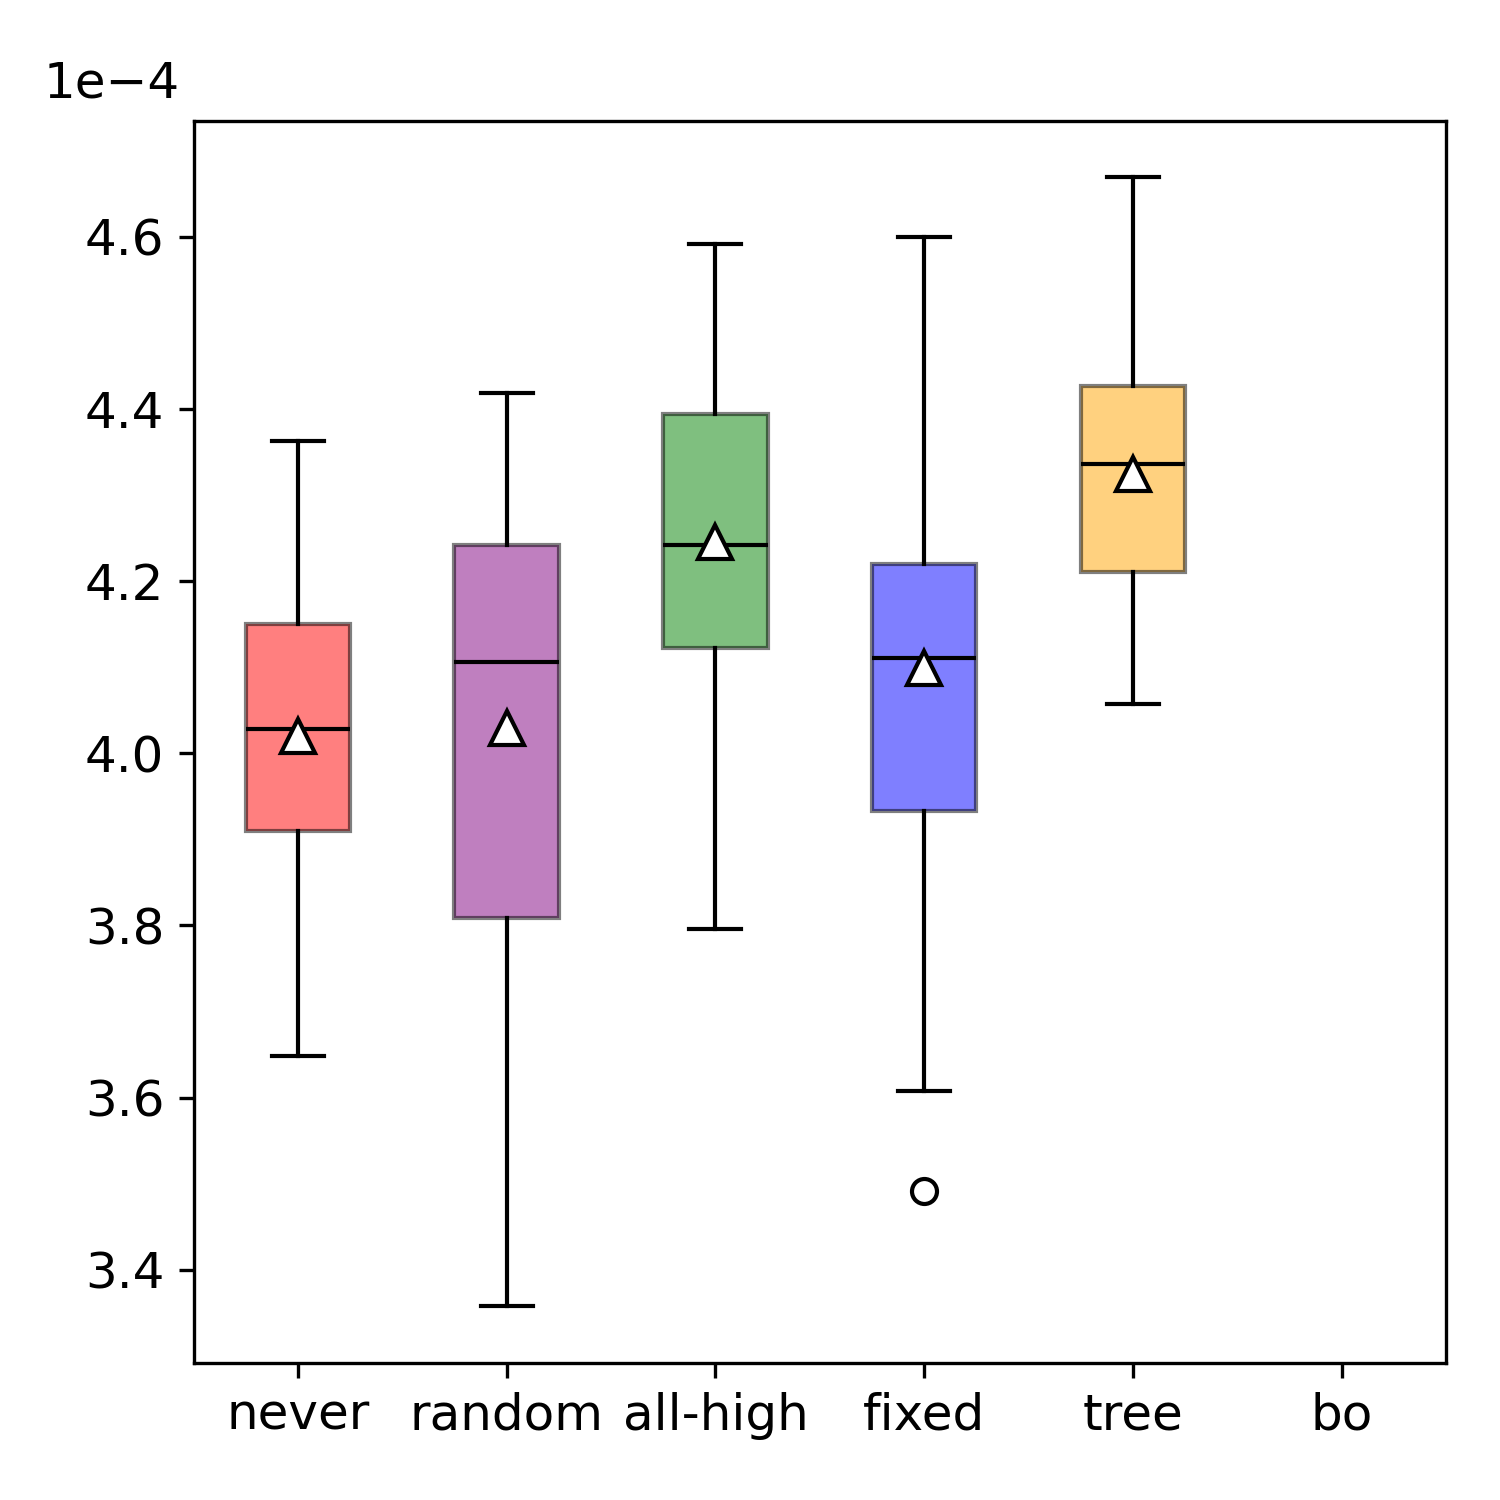
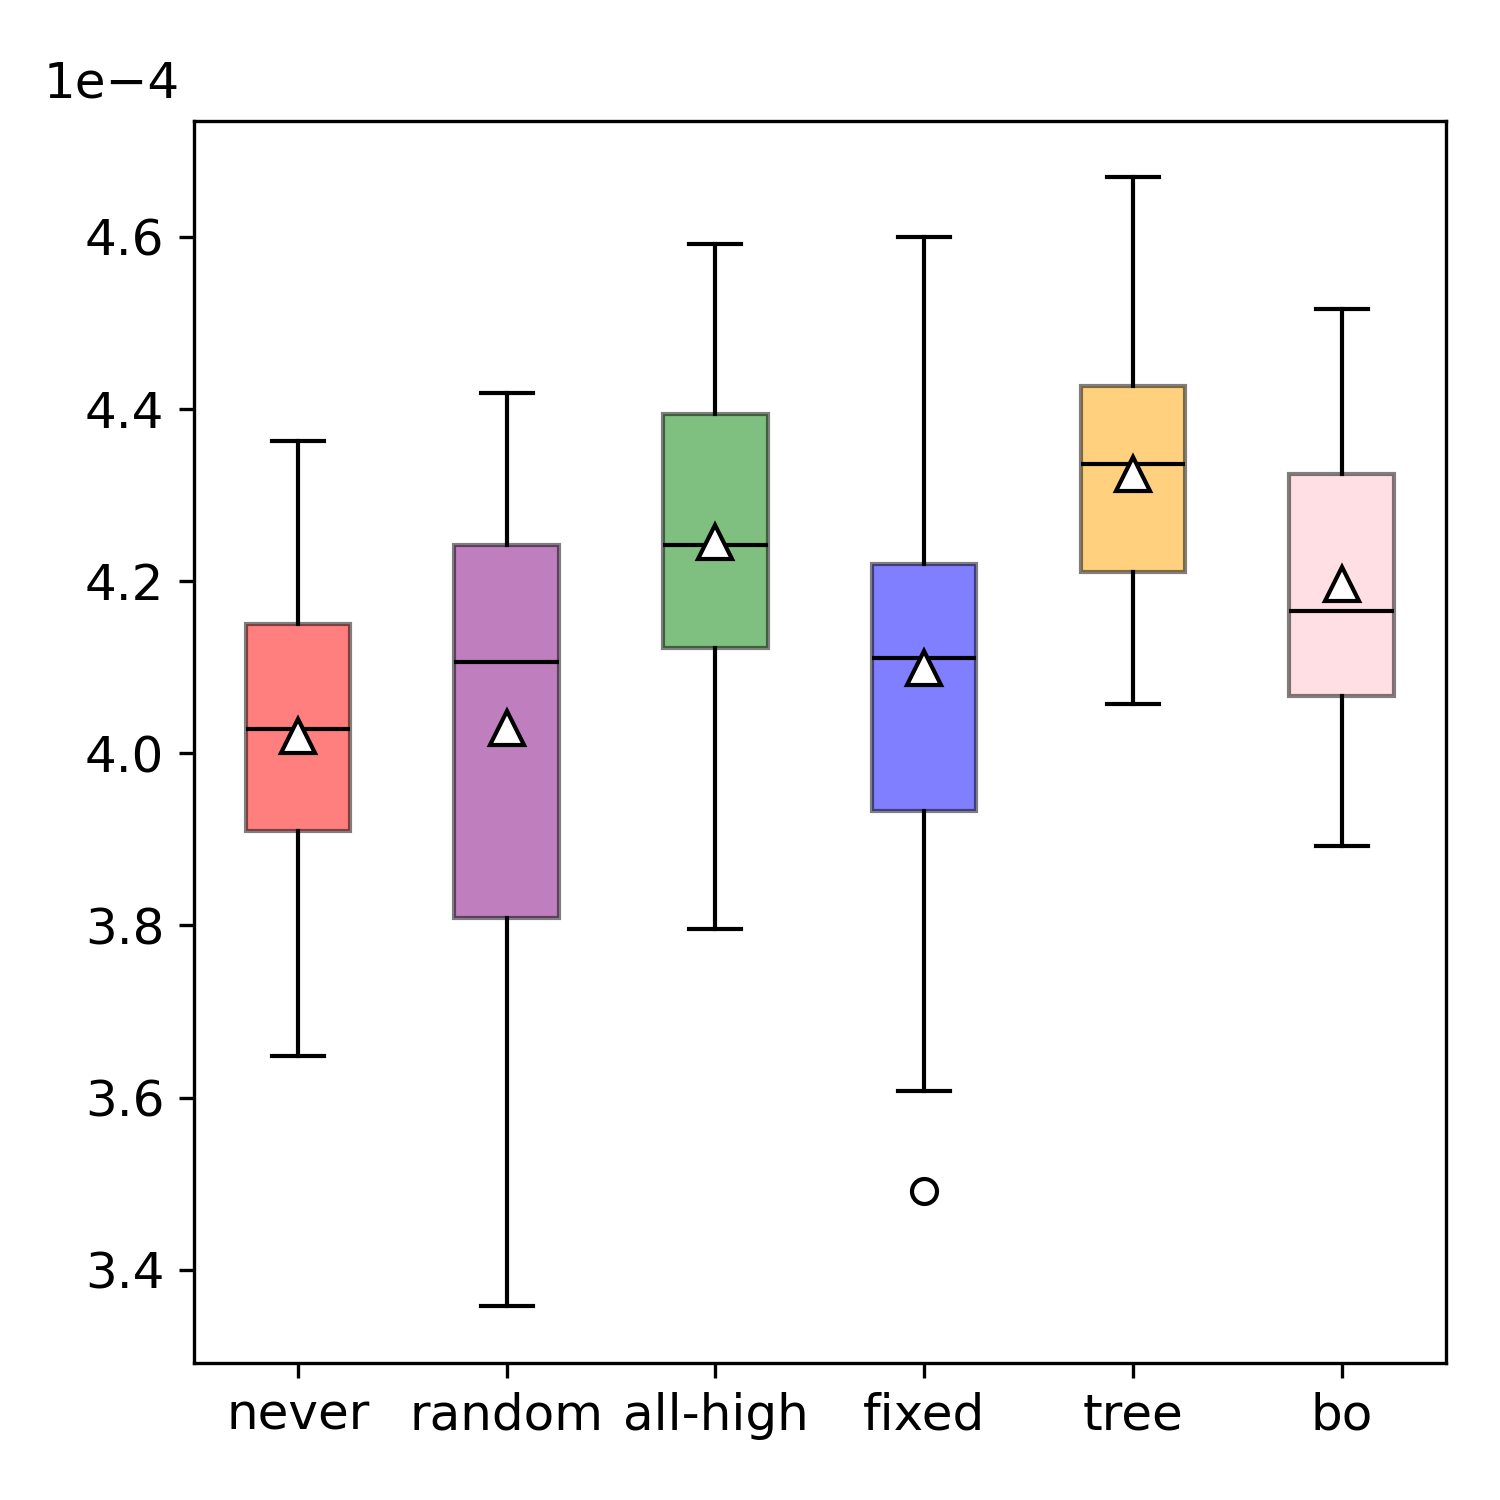
updated plots and table code with compressor

Changed region(s): [[0.8587, 0.3067, 0.9507, 0.4907], [0.8893, 0.552, 0.92, 0.5827]]

diff --git a/Docker/results/plot_results.py b/Docker/results/plot_results.py
@@ -58,12 +58,15 @@ def VD_A(treatment: List[float], control: List[float]):
 
 metric = {('selector', 'same'): 'F1 Score Over Total Time for FL Round',
           ('selector', 'new'): 'F1 Score Over Total Time for FL Round',
-          ('hdh', 'same'): 'Val F1', ('hdh', 'new'): 'Val F1'}
+          ('hdh', 'same'): 'Val F1', ('hdh', 'new'): 'Val F1',
+          ('compressor', 'same'): 'Communication Time',
+          ('compressor', 'new'): 'Communication Time'}
 
 label_dict = {'selector': ['never', 'random', 'all-high', 'fixed', 'tree', 'bo'],
-              'hdh': ['never', 'random', 'round1', 'fixed', 'tree', 'bo']}
+              'hdh': ['never', 'random', 'round1', 'fixed', 'tree', 'bo'],
+              'compressor': ['never', 'random', 'always', 'fixed', 'tree', 'bo']}
 
-patterns = ['selector', 'hdh']
+patterns = ['selector', 'hdh', 'compressor']
 persistences = ['same', 'new']
 iid_percentages = [100, 0]
 pairs = [(3, 3), (5, 5), (10, 10), (2, 4), (4, 2), (4, 8), (8, 4), (2, 8)]
